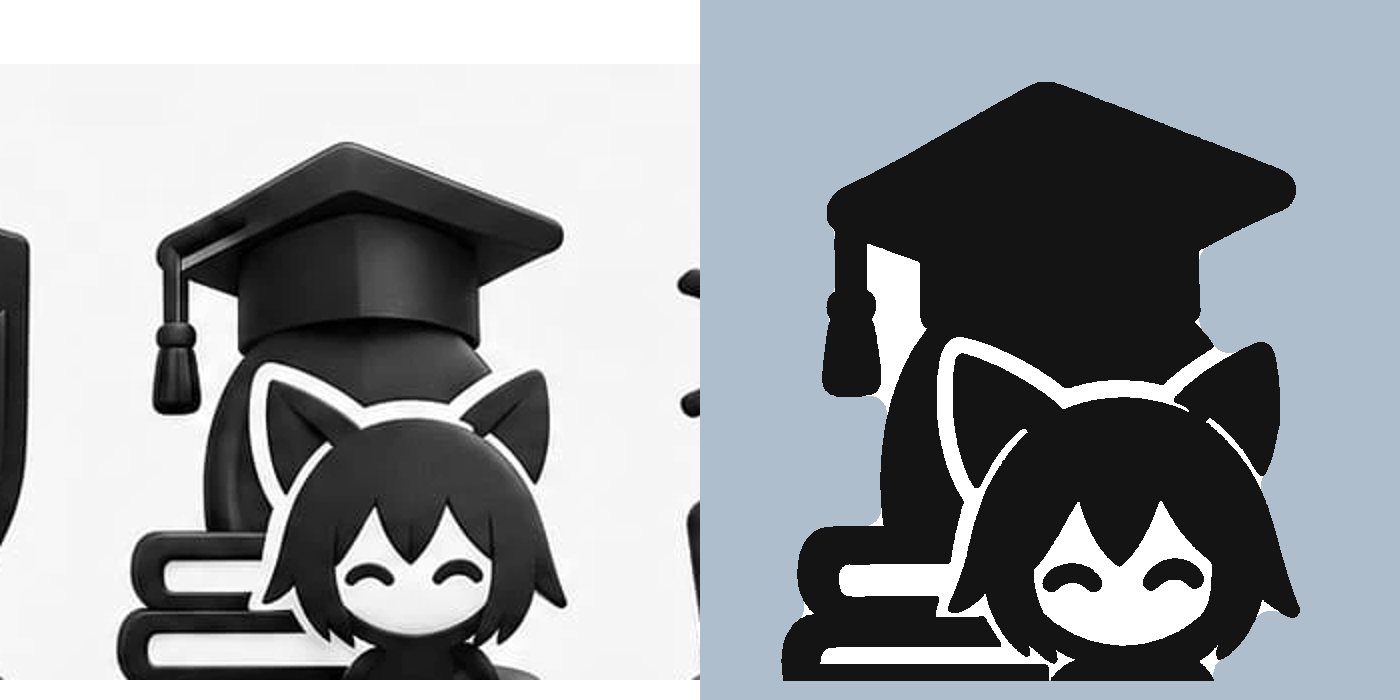
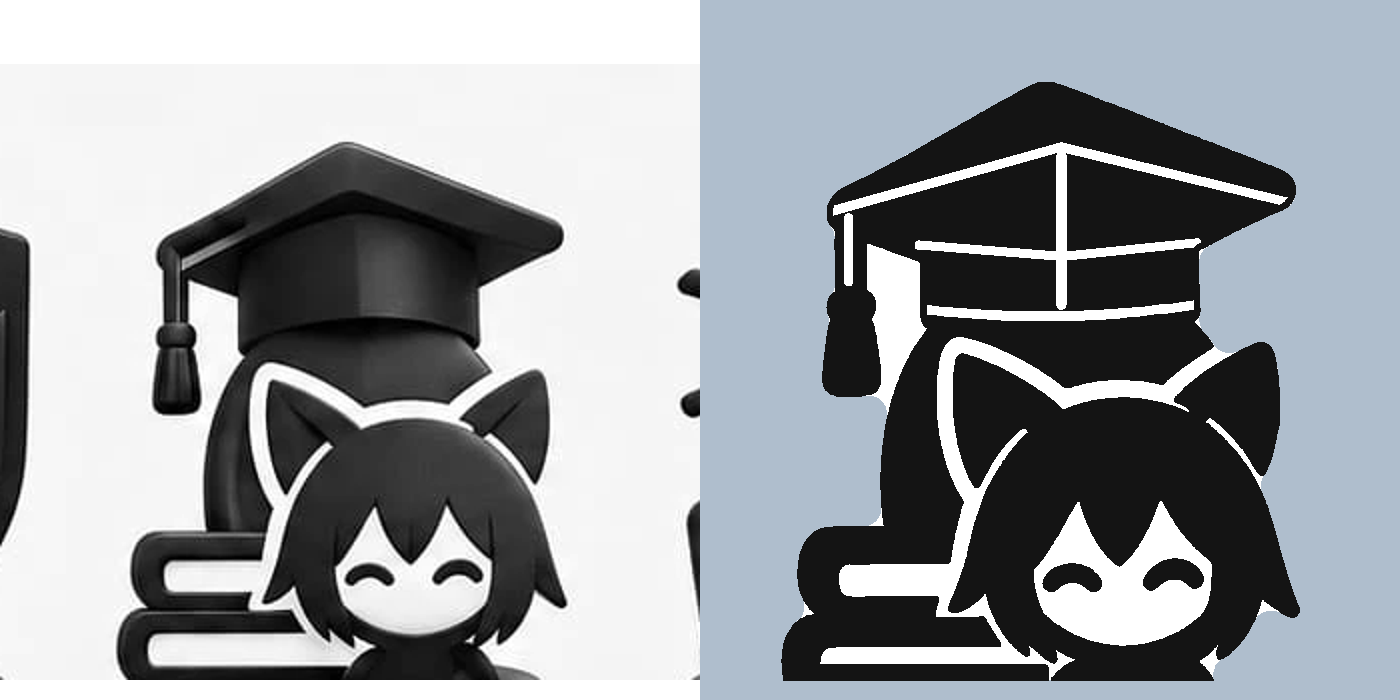
Troféu 3: linhas brancas demarcando o chapéu de formatura
Claude-Session: https://claude.ai/code/session_01JD43eYGwEp7Yu9N7sncSYS

Changed region(s): [[0.645, 0.21, 0.9214, 0.48], [0.5836, 0.24, 0.7064, 0.42]]

diff --git a/modelos/humberto-trofeus/v7-pipeline/ajustes8.py b/modelos/humberto-trofeus/v7-pipeline/ajustes8.py
@@ -44,7 +44,16 @@ def a3(p, b, f, cv):
     if len(livro) == 4:
         p = ok(unary_union([p, box(livro[0] + 2.5, 0, livro[2], 1.6).buffer(0.8, quad_segs=16).intersection(box(-80, 0, 80, 3))]))
     p, br = fiel(p, r_fecho=3.0, faixa_base=0)
-    return p, br, f
+    # linhas brancas que demarcam as partes do chapéu (medidas na grade da referência)
+    linhas = cv(unary_union([
+        T([(-95,227),(5,255),(103,231)], 4),        # aba / copa
+        T([(-57,212),(5,207),(64,213)], 4),         # aba (embaixo) / copa
+        T([(5,251),(5,186)], 4),                    # quina da frente da copa
+        T(bez((-55,184),(5,177),(63,186)), 4),      # copa / parte de trás da cabeça
+        T([(-88,224),(-88,196)], 3.5),              # cordão do pingente / copa
+    ]))
+    linhas = ok(linhas.intersection(p.buffer(-1.0)))
+    return ok(p.difference(linhas)), ok(unary_union([br, linhas])), f
 
 def a6(p, b, f, cv):
     b = b.buffer(-0.45).buffer(0.45)                    # tira o risco fino de brilho no topo do capacete
